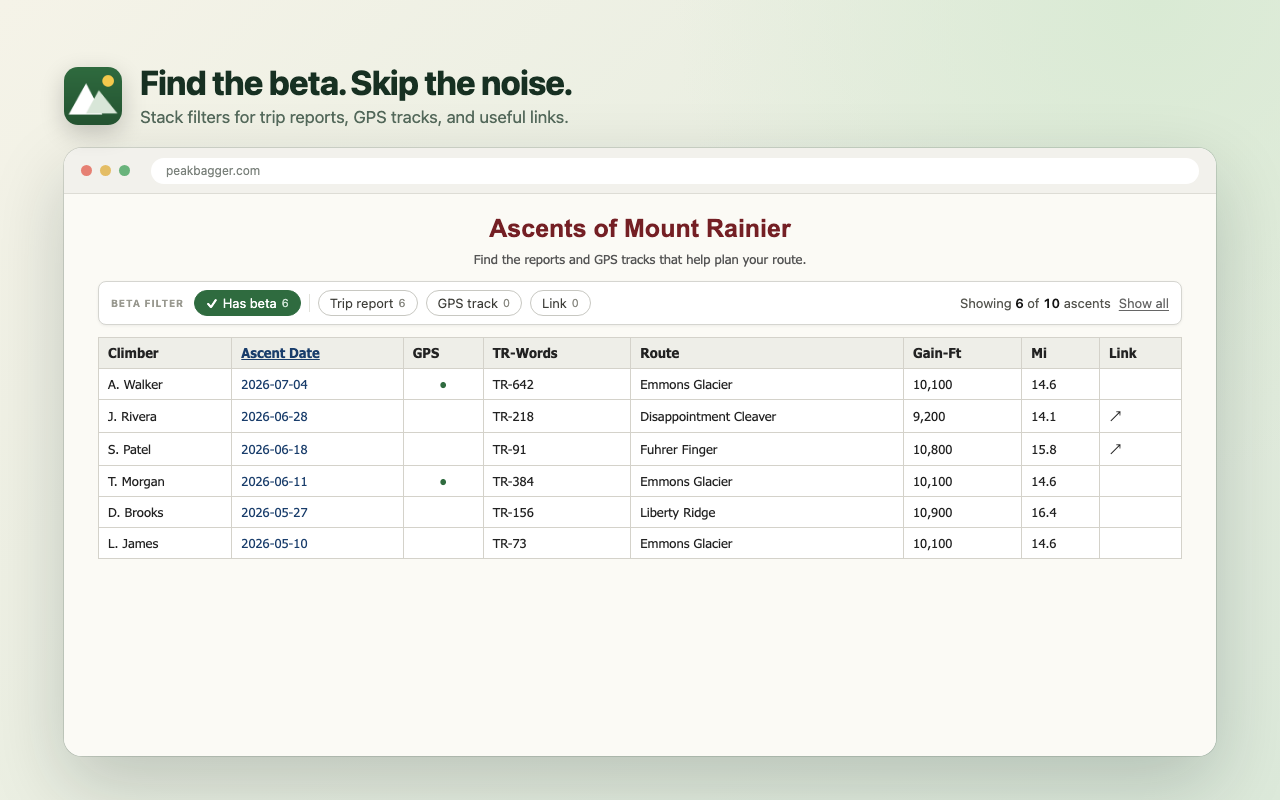
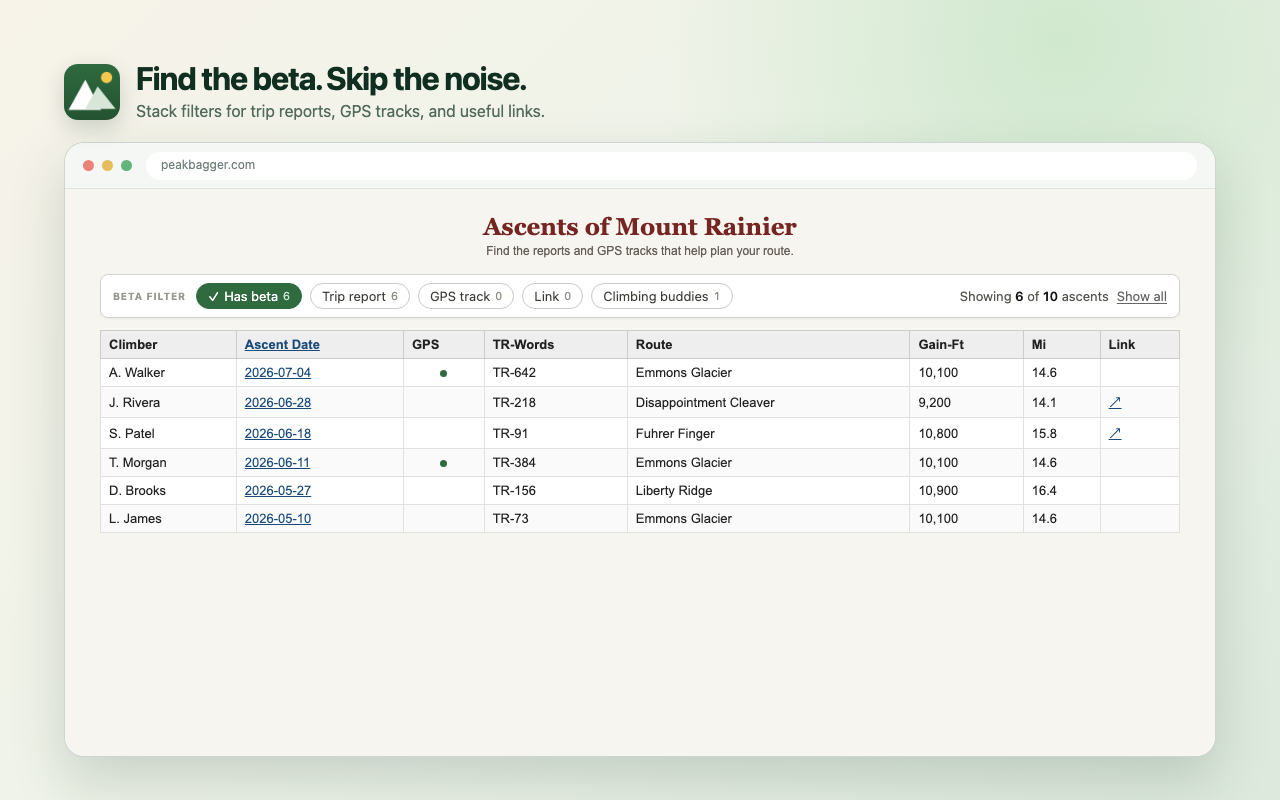
docs: update showcase filter asset with climbing buddies chip
Add the Climbing buddies chip to store-assets/showcase-2-beta-filter.png to reflect the current ascent filter surface, and add its matching standalone showcase HTML fixture in scripts/showcase/beta-filter.html.

Checks: hidden headless Chromium render at 1280x800; visually verified the chip group alignment and count against the baseline image.

Changed region(s): [[0.0625, 0.25, 0.9375, 0.6875], [0.0312, 0.0625, 0.9375, 0.2188]]

diff --git a/scripts/showcase/beta-filter.html b/scripts/showcase/beta-filter.html
@@ -1,0 +1,261 @@
+<!doctype html>
+<html lang="en">
+<head>
+  <meta charset="utf-8">
+  <meta name="viewport" content="width=device-width, initial-scale=1">
+  <title>Ascent beta filter showcase</title>
+  <link rel="stylesheet" href="/scripts/showcase/showcase.css">
+  <style>
+    .beta-stage {
+      height: calc(100% - 46px);
+      overflow-y: auto;
+      padding: 24px 32px;
+      background: #f7f5ef;
+      color: #291d19;
+      font-family: Arial, Helvetica, sans-serif;
+    }
+    .beta-title {
+      text-align: center;
+      margin-bottom: 16px;
+    }
+    .beta-title h2 {
+      margin: 0;
+      color: #752522;
+      font-family: Georgia, serif;
+      font-size: 24px;
+    }
+    .beta-title p {
+      margin: 4px 0 0;
+      color: #655d58;
+      font-size: 12px;
+    }
+    .beta-table-wrap {
+      width: 100%;
+      max-width: 1080px;
+      margin: 0 auto;
+    }
+
+    /* PBAF Filter Bar */
+    #pbaf-bar {
+      box-sizing: border-box;
+      margin: 10px 0 12px;
+      padding: 8px 12px;
+      background: #fff;
+      border: 1px solid #d5d5d0;
+      border-radius: 8px;
+      box-shadow: 0 1px 3px rgba(0,0,0,.06);
+      display: flex;
+      flex-wrap: wrap;
+      align-items: center;
+      gap: 6px 8px;
+      font: 13px/1.4 -apple-system, BlinkMacSystemFont, "Segoe UI", Roboto, Helvetica, Arial, sans-serif;
+      color: #333;
+    }
+    .pbaf-label {
+      font-size: 10px;
+      font-weight: 700;
+      letter-spacing: .08em;
+      color: #98988f;
+      text-transform: uppercase;
+      margin-right: 2px;
+    }
+    .pbaf-chip {
+      appearance: none;
+      display: inline-flex;
+      align-items: center;
+      gap: 5px;
+      padding: 3px 11px;
+      border: 1px solid #c8c8c2;
+      border-radius: 999px;
+      background: #fff;
+      color: #3d3d38;
+      font: inherit;
+    }
+    .pbaf-chip[aria-pressed="true"] {
+      background: #2f6b3f;
+      border-color: #2f6b3f;
+      color: #fff;
+    }
+    .pbaf-chip .pbaf-count {
+      font-size: 11px;
+      color: #8b8b84;
+      font-variant-numeric: tabular-nums;
+    }
+    .pbaf-chip[aria-pressed="true"] .pbaf-count {
+      color: #cfe3d4;
+    }
+    .pbaf-spacer {
+      flex: 1 1 auto;
+    }
+    .pbaf-status {
+      color: #55554f;
+      white-space: nowrap;
+    }
+    .pbaf-status b {
+      color: #141414;
+      font-weight: 600;
+    }
+    .pbaf-reset {
+      color: #666;
+      text-decoration: underline;
+      text-underline-offset: 2px;
+      white-space: nowrap;
+    }
+
+    /* Peakbagger Table */
+    table.gray {
+      width: 100%;
+      border-collapse: collapse;
+      background: #fff;
+      border: 1px solid #d5d5d0;
+      font-size: 13px;
+    }
+    table.gray th {
+      background: #eee;
+      border: 1px solid #ccc;
+      padding: 6px 8px;
+      text-align: left;
+      font-weight: bold;
+      color: #222;
+    }
+    table.gray th.sorted {
+      color: #194a7a;
+      text-decoration: underline;
+    }
+    table.gray td {
+      border: 1px solid #e0e0dc;
+      padding: 6px 8px;
+      color: #222;
+    }
+    table.gray tr:nth-child(even) {
+      background: #fafafa;
+    }
+    table.gray td a {
+      color: #194a7a;
+      text-decoration: underline;
+    }
+    .gps-dot {
+      display: inline-block;
+      width: 7px;
+      height: 7px;
+      border-radius: 50%;
+      background: #2f6b3f;
+    }
+  </style>
+</head>
+<body>
+  <main class="showcase">
+    <header class="showcase-head">
+      <span class="showcase-logo" aria-hidden="true"></span>
+      <div>
+        <h1>Find the beta. Skip the noise.</h1>
+        <p class="showcase-subtitle">Stack filters for trip reports, GPS tracks, and useful links.</p>
+      </div>
+    </header>
+
+    <section class="browser">
+      <div class="browser-bar">
+        <span class="traffic-lights"><i></i><i></i><i></i></span>
+        <div class="address">peakbagger.com</div>
+      </div>
+      <div class="beta-stage">
+        <div class="beta-table-wrap">
+          <div class="beta-title">
+            <h2>Ascents of Mount Rainier</h2>
+            <p>Find the reports and GPS tracks that help plan your route.</p>
+          </div>
+
+          <div id="pbaf-bar">
+            <span class="pbaf-label">Beta filter</span>
+            <button type="button" class="pbaf-chip" aria-pressed="true"><span class="pbaf-tick">✓</span> <span class="pbaf-chip-label">Has beta</span> <span class="pbaf-count">6</span></button>
+            <button type="button" class="pbaf-chip" aria-pressed="false"><span class="pbaf-chip-label">Trip report</span> <span class="pbaf-count">6</span></button>
+            <button type="button" class="pbaf-chip" aria-pressed="false"><span class="pbaf-chip-label">GPS track</span> <span class="pbaf-count">0</span></button>
+            <button type="button" class="pbaf-chip" aria-pressed="false"><span class="pbaf-chip-label">Link</span> <span class="pbaf-count">0</span></button>
+            <button type="button" class="pbaf-chip" aria-pressed="false"><span class="pbaf-chip-label">Climbing buddies</span> <span class="pbaf-count">1</span></button>
+            <span class="pbaf-spacer"></span>
+            <span class="pbaf-status">Showing <b>6</b> of <b>10</b> ascents</span>
+            <span class="pbaf-reset">Show all</span>
+          </div>
+
+          <table class="gray">
+            <thead>
+              <tr>
+                <th>Climber</th>
+                <th class="sorted">Ascent Date</th>
+                <th>GPS</th>
+                <th>TR-Words</th>
+                <th>Route</th>
+                <th>Gain-Ft</th>
+                <th>Mi</th>
+                <th>Link</th>
+              </tr>
+            </thead>
+            <tbody>
+              <tr>
+                <td>A. Walker</td>
+                <td><a href="#">2026-07-04</a></td>
+                <td align="center"><span class="gps-dot"></span></td>
+                <td>TR-642</td>
+                <td>Emmons Glacier</td>
+                <td>10,100</td>
+                <td>14.6</td>
+                <td></td>
+              </tr>
+              <tr>
+                <td>J. Rivera</td>
+                <td><a href="#">2026-06-28</a></td>
+                <td></td>
+                <td>TR-218</td>
+                <td>Disappointment Cleaver</td>
+                <td>9,200</td>
+                <td>14.1</td>
+                <td><a href="#">↗</a></td>
+              </tr>
+              <tr>
+                <td>S. Patel</td>
+                <td><a href="#">2026-06-18</a></td>
+                <td></td>
+                <td>TR-91</td>
+                <td>Fuhrer Finger</td>
+                <td>10,800</td>
+                <td>15.8</td>
+                <td><a href="#">↗</a></td>
+              </tr>
+              <tr>
+                <td>T. Morgan</td>
+                <td><a href="#">2026-06-11</a></td>
+                <td align="center"><span class="gps-dot"></span></td>
+                <td>TR-384</td>
+                <td>Emmons Glacier</td>
+                <td>10,100</td>
+                <td>14.6</td>
+                <td></td>
+              </tr>
+              <tr>
+                <td>D. Brooks</td>
+                <td><a href="#">2026-05-27</a></td>
+                <td></td>
+                <td>TR-156</td>
+                <td>Liberty Ridge</td>
+                <td>10,900</td>
+                <td>16.4</td>
+                <td></td>
+              </tr>
+              <tr>
+                <td>L. James</td>
+                <td><a href="#">2026-05-10</a></td>
+                <td></td>
+                <td>TR-73</td>
+                <td>Emmons Glacier</td>
+                <td>10,100</td>
+                <td>14.6</td>
+                <td></td>
+              </tr>
+            </tbody>
+          </table>
+        </div>
+      </div>
+    </section>
+  </main>
+</body>
+</html>
